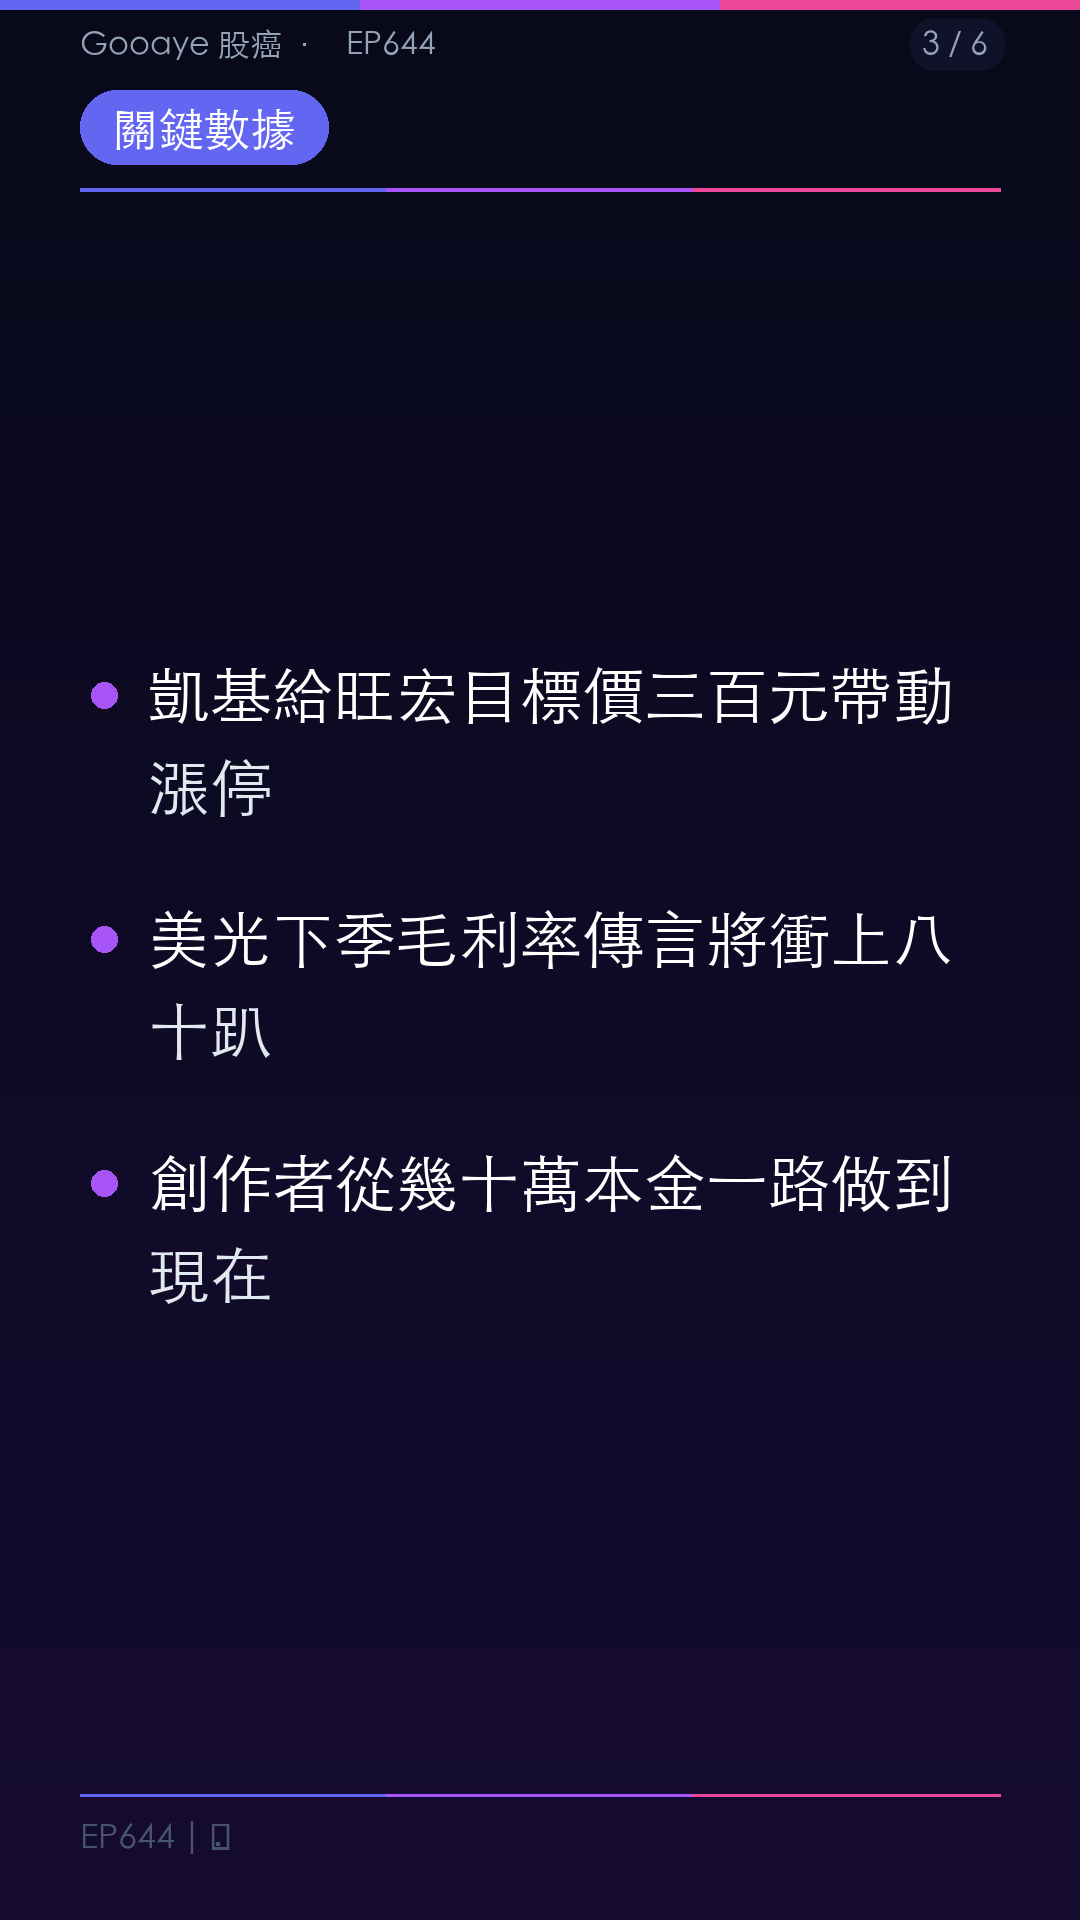
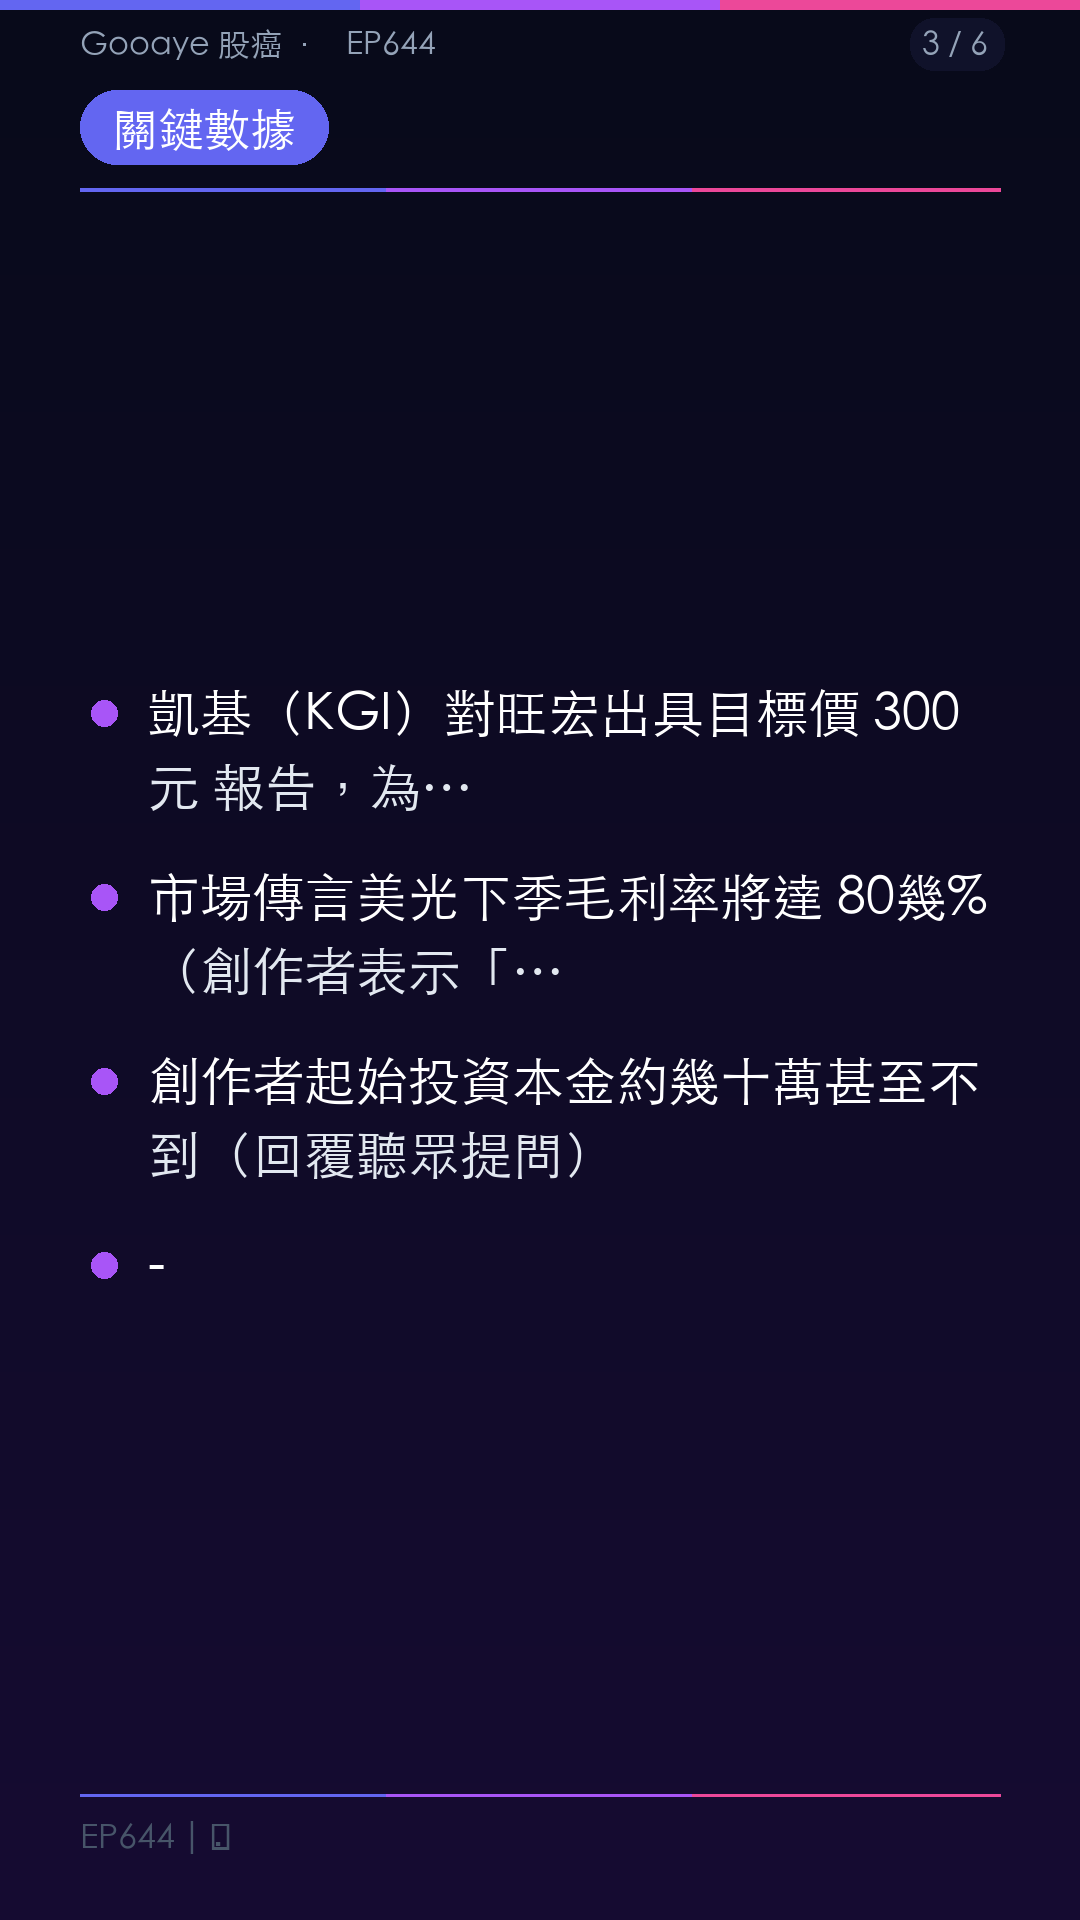
feat: increase Shorts card bullet points from 3 to 5 per section
- card_generator_shorts.py: cap points[:5], reduce FS_CONTENT 62→52, line_h +22, bullet_gap 60→36
- claude_browser.py: update prompt to request 4-5 points per section (8-14 chars each), parse up to 5 per block
- Regenerated EP644 (股癌 JPDxWnDUtAw) Shorts cards and video

Changed region(s): [[0.0611, 0.3438, 0.9167, 0.6875], [0.7028, 0.5312, 0.8861, 0.625]]

diff --git a/backend/claude_browser.py b/backend/claude_browser.py
@@ -550,11 +550,11 @@ def generate_card_points_shorts(sections: dict[str, str]) -> tuple[dict[str, lis
     prompt = f"""你是社群媒體短影音腳本編輯。請針對以下投資摘要章節，產出適合 YouTube Shorts 的精簡版本。
 
 嚴格要求：
-- 每個章節只輸出 2-3 條重點（不是 5 條）
-- 每條重點必須是 8 到 12 個繁體中文字（只計算中文字，不計標點符號）
+- 每個章節輸出 4-5 條重點
+- 每條重點必須是 8 到 14 個繁體中文字（只計算中文字，不計標點符號）
 - 文字要直接、有力、讓人一眼看懂
 - 不加任何前綴符號（不要加 1. 或 • 或 -）
-- 每個章節輸出 2-3 行，每行一條
+- 每個章節輸出 4-5 行，每行一條
 
 另外，請在最開頭產出一個 [HOOK]，寫一句 15-20 字的「引子」：
 - 要有懸念、驚人數字、或反直覺觀點
@@ -569,7 +569,9 @@ def generate_card_points_shorts(sections: dict[str, str]) -> tuple[dict[str, lis
 [章節名稱]
 重點1
 重點2
-重點3（可選）
+重點3
+重點4
+重點5（可選）
 
 章節內容如下：
 
@@ -596,7 +598,7 @@ def generate_card_points_shorts(sections: dict[str, str]) -> tuple[dict[str, lis
             if is_hook and current_lines:
                 hook_text = current_lines[0]
             elif current_name is not None:
-                result[current_name] = current_lines[:3]
+                result[current_name] = current_lines[:5]
 
             tag = header_match.group(1).strip()
             if tag == "HOOK":
@@ -617,7 +619,7 @@ def generate_card_points_shorts(sections: dict[str, str]) -> tuple[dict[str, lis
     if is_hook and current_lines:
         hook_text = current_lines[0]
     elif current_name is not None:
-        result[current_name] = current_lines[:3]
+        result[current_name] = current_lines[:5]
 
     return result, hook_text
 

diff --git a/backend/card_generator_shorts.py b/backend/card_generator_shorts.py
@@ -32,7 +32,7 @@ FS_BRAND     = 32
 FS_CHANNEL   = 54
 FS_HOOK      = 72
 FS_LABEL     = 46
-FS_CONTENT   = 62
+FS_CONTENT   = 52
 FS_FOOTER    = 34
 FS_PROGRESS  = 32
 FS_CTA_TITLE = 52
@@ -209,10 +209,10 @@ def _make_section_card_shorts(
     font_content = _load_font(FS_CONTENT)
     text_max_w = W - PAD * 2 - 74
     text_x = PAD + 68
-    line_h = FS_CONTENT + 30
-    bullet_gap = 60   # extra gap between bullet points
+    line_h = FS_CONTENT + 22
+    bullet_gap = 36   # extra gap between bullet points
 
-    capped = points[:3]   # Shorts: max 3 bullets
+    capped = points[:5]   # Shorts: max 5 bullets
 
     # Pre-wrap all points to know total height
     all_wrapped = [_wrap_text(pt, font_content, text_max_w, draw) or [pt] for pt in capped]
@@ -354,7 +354,7 @@ def generate_cards_shorts(
     # 2. Section cards (card_01 … card_N)
     for i, (section_title, content) in enumerate(ordered, start=1):
         points = all_points.get(section_title) or _fallback_points(content)
-        points = [p for p in points if p][:3]
+        points = [p for p in points if p][:5]
         card_path = output_dir / f"card_{i:02d}.png"
         _make_section_card_shorts(
             section_title, points, i, total_section_cards,
